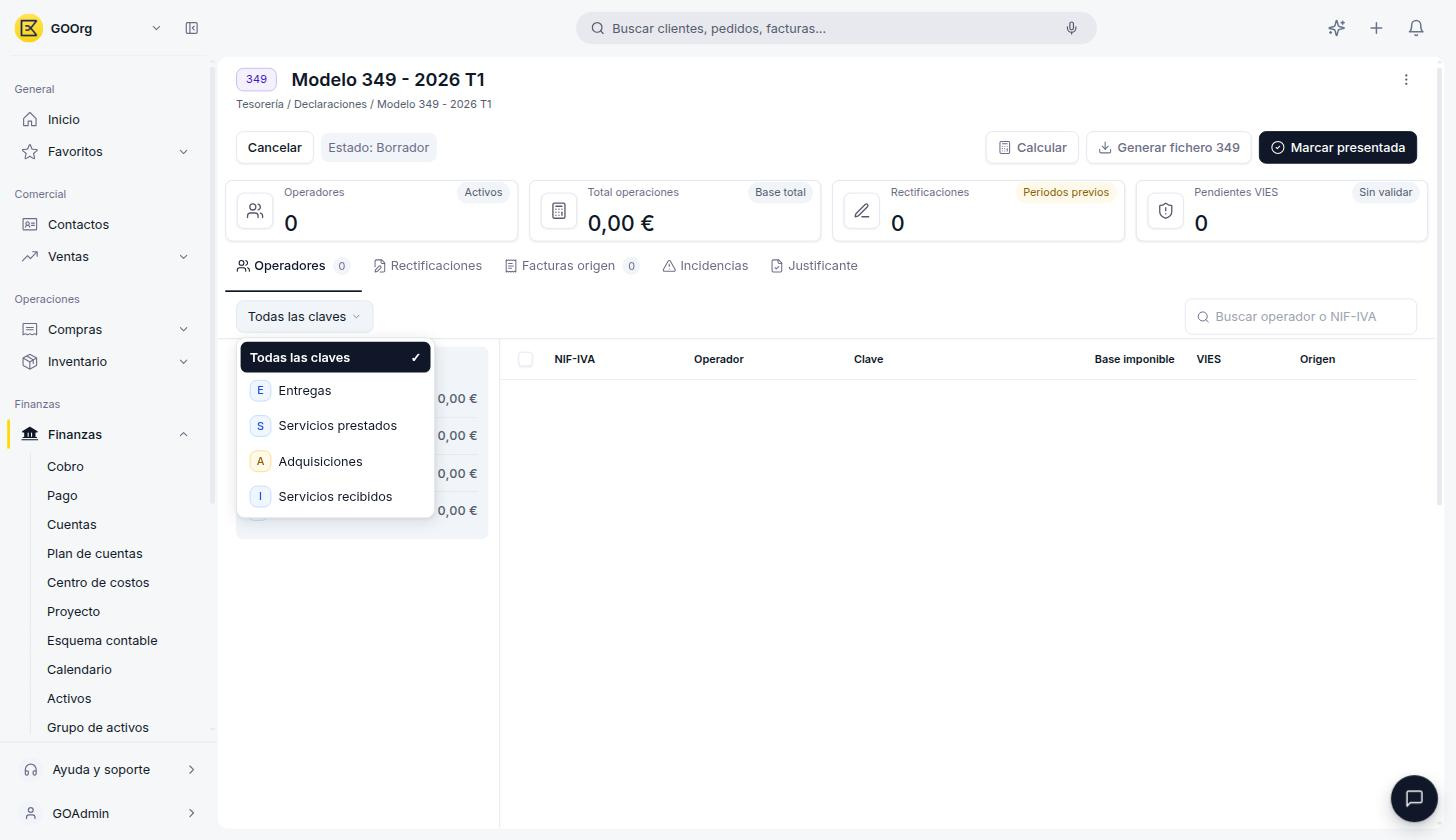
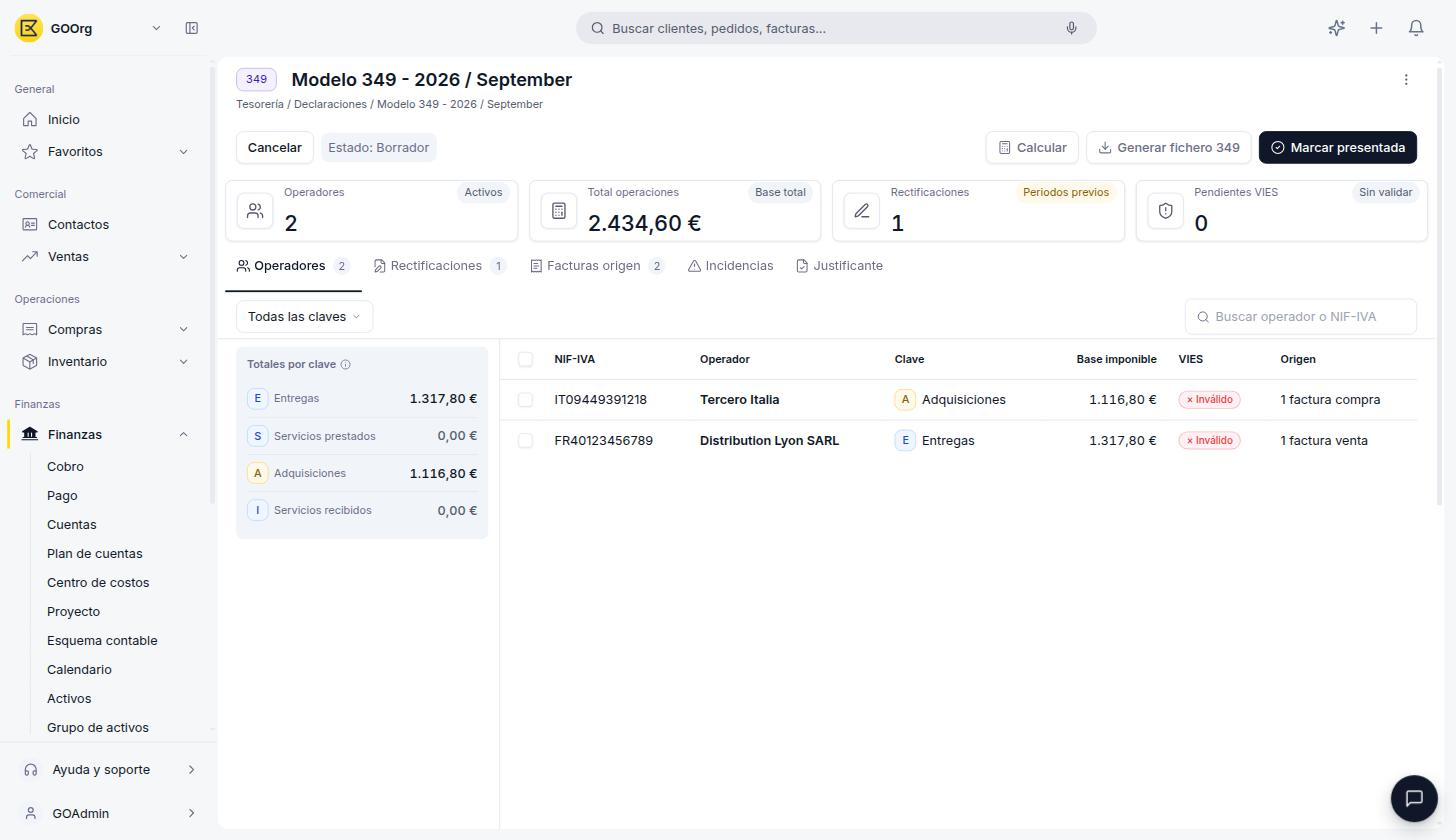
Feature ETP-4930: Editar contenido y capturas

diff --git a/docs/es/impuestos/modelo-349/modelo-349.md b/docs/es/impuestos/modelo-349/modelo-349.md
@@ -41,11 +41,18 @@ La declaración se crea en estado **Borrador** y aparece junto al resto de tus d
 
 ## El Detalle de una Declaración
 
-La cabecera de una declaración Modelo 349 ofrece tres acciones: **Calcular**, **Generar fichero 349** y **Marcar presentada**.
+La cabecera de una declaración Modelo 349 en **Borrador** ofrece tres acciones: **Calcular**, **Generar fichero 349** y **Marcar presentada**. Igual que en el Modelo 303, una vez que la marcas como presentada pasa a **Presentado · Sin acuse** y estos botones dejan de estar disponibles: solo quedas con Cancelar y Generar fichero 349, hasta que subas el comprobante en la pestaña Justificante.
 
 <figure markdown="span">
   ![Cabecera del Modelo 349 con sus indicadores principales](assets/modelo-349-2.jpg)
   <figcaption>Cabecera del Modelo 349: operadores activos, total de operaciones, rectificaciones de períodos previos y pendientes de validación VIES.</figcaption>
+</figure>
+
+Si tienes operadores con el NIF-IVA pendiente de validar, un aviso aparece sobre los indicadores con acceso directo a la validación:
+
+<figure markdown="span">
+  ![Aviso de NIF-IVA con validación VIES pendiente y enlace Validar VIES](assets/modelo-349-4.jpg)
+  <figcaption>El aviso "NIF-IVA con validación VIES pendiente" es informativo y no bloquea la declaración; pulsa <strong>Validar VIES</strong> para lanzar la validación asíncrona contra el sistema de la Unión Europea.</figcaption>
 </figure>
 
 Los cuatro indicadores de la cabecera son:
@@ -57,7 +64,7 @@ Los cuatro indicadores de la cabecera son:
 
 ### Pestaña Operadores
 
-Lista cada tercero con operaciones intracomunitarias en el período, con su NIF-IVA, la **Clave** de la operación, la base imponible, el estado de validación **VIES** y el documento de **Origen**.
+Lista cada tercero con operaciones intracomunitarias en el período, con su NIF-IVA, el nombre del Operador, la **Clave** de la operación, la Base imponible, el estado de validación **VIES** (*Pendiente* o *Inválido*) y una columna de **Origen** con un resumen de cuántas facturas componen ese total, por ejemplo *"10 facturas compra"* o *"1 factura venta"*.
 
 <figure markdown="span">
   ![Pestaña Operadores con el filtro Todas las claves desplegado](assets/modelo-349-3.jpg)
@@ -74,9 +81,17 @@ Las cuatro claves de operación son:
 ### Otras Pestañas
 
 - **Rectificaciones** — operaciones que corrigen la base imponible ya declarada en un período anterior; muestra *"Sin rectificaciones correctivas en este periodo"* cuando no hay ninguna.
-- **Facturas origen** — las facturas que Etendo Go usó (o usará, tras pulsar Calcular) para completar la declaración.
-- **Incidencias** — detalle de los datos que generaron alguna advertencia durante el cálculo, por ejemplo un NIF-IVA pendiente de validar en VIES.
+- **Facturas origen** — las facturas que Etendo Go usó (o usará, tras pulsar Calcular) para completar la declaración, con las mismas columnas que la pestaña Facturas del Modelo 303 (Fecha, Nº, Tipo, Tercero, Régimen, Base, Cuota, Total y Casillas). En el Modelo 349, las columnas Cuota, Total y Casillas suelen mostrarse vacías (*—*), porque estas operaciones intracomunitarias no generan cuota de IVA ni ocupan casillas del 303.
+- **Incidencias** — detalle de los datos que generaron alguna advertencia durante el cálculo, por ejemplo un NIF-IVA pendiente de validar en VIES; si no hay ninguna, muestra un estado vacío "Sin incidencias".
 - **Justificante** — sube aquí el comprobante de presentación de tu declaración.
+
+<figure markdown="span">
+  ![Pestaña Facturas origen con varias compras de una misma factura de origen](assets/modelo-349-5.jpg)
+  <figcaption>Facturas origen: mismo formato de tabla que el Modelo 303, aunque aquí las columnas Cuota, Total y Casillas quedan vacías al tratarse de operaciones intracomunitarias.</figcaption>
+</figure>
+
+!!! note "El título de la declaración puede mostrarse en inglés"
+    Al igual que en el Modelo 303, el título de una declaración mensual no siempre coincide con la vista previa del diálogo de creación. Además, en el Modelo 349 el mes puede aparecer en inglés en el título, por ejemplo **"Modelo 349 - 2026 / August"** en lugar de "Modelo 349 - 2026 / Agosto". Es una particularidad conocida de la pantalla, no una traducción pendiente de tu configuración.
 
 !!! tip "Justificante es un área de carga manual"
     Etendo Go no genera el comprobante de presentación de forma automática. Arrastra el archivo o selecciónalo desde tu equipo una vez que ya presentaste la declaración ante Hacienda (formatos compatibles: PDF, Word, Excel, PowerPoint e imágenes).

diff --git a/docs/es/impuestos/modelo-303/modelo-303.md b/docs/es/impuestos/modelo-303/modelo-303.md
@@ -27,8 +27,8 @@ Con el modelo activo, el botón **+ Nueva declaración** queda disponible.
 
 1. Pulsa **+ Nueva declaración**.
 2. Elige el **Modelo 303** en el selector.
-3. Selecciona el **Año** y la **Frecuencia**: **Trimestral** (períodos T1 a T4) o **Mensual**.
-4. Elige el **Período** correspondiente. El diálogo muestra una vista previa, por ejemplo *"Se creará como Modelo 303 · T2 2026"*.
+3. Selecciona el **Año** y la **Frecuencia**: **Trimestral** (períodos T1 a T4) o **Mensual** (cuadrícula de los 12 meses).
+4. Elige el **Período** correspondiente. El diálogo muestra una vista previa, por ejemplo *"Se creará como Modelo 303 · T2 2026"* para una declaración trimestral, o *"Se creará como Modelo 303 · 01 2026"* para una mensual.
 5. Pulsa **Crear declaración**.
 
 La declaración se crea en estado **Borrador** y aparece en el listado de **Declaraciones**, junto al resto de tus modelos activos, con columnas de Modelo, Período, Tipo, Estado, Resultado (*Sin resultado* hasta que pulses Calcular), Incidencias y Última actualización.
@@ -40,11 +40,19 @@ La declaración se crea en estado **Borrador** y aparece en el listado de **Decl
 
 ## El Detalle de una Declaración
 
-Dentro de una declaración, la cabecera resume el período y ofrece tres acciones: **Calcular**, **Generar fichero 303** y **Marcar presentado**.
+Dentro de una declaración en **Borrador**, la cabecera resume el período y ofrece tres acciones: **Calcular**, **Generar fichero 303** y **Marcar presentado**.
 
 - **Calcular** — recalcula las casillas a partir de las facturas confirmadas del período.
 - **Generar fichero 303** — genera el fichero listo para subir a la Sede electrónica de la AEAT.
 - **Marcar presentado** — cambia el estado de la declaración una vez que la presentaste ante Hacienda.
+
+<figure markdown="span">
+  ![Declaración en estado Presentado · Sin acuse, sin los botones Calcular ni Marcar presentado](assets/modelo-303-6.jpg)
+  <figcaption>Una vez marcada como presentada, la declaración queda en estado <strong>Presentado · Sin acuse</strong>: los botones Calcular y Marcar presentado desaparecen, y solo quedan disponibles Cancelar y Generar fichero 303.</figcaption>
+</figure>
+
+!!! info "Estado Presentado · Sin acuse"
+    Tras pulsar **Marcar presentado**, la declaración pasa a **Presentado · Sin acuse** hasta que subas el comprobante en la pestaña **Justificante**. En este estado ya no puedes recalcular las casillas ni volver a marcarla como presentada; solo puedes cancelarla o volver a generar el fichero.
 
 Los cuatro indicadores de la cabecera son:
 
@@ -87,12 +95,22 @@ El bloque **Resultado** traduce todo lo anterior en una única cifra. La casilla
 
 ### Pestaña Facturas
 
-Muestra todas las facturas confirmadas del período que Etendo Go usó (o usará, tras pulsar Calcular) para completar las casillas. Es la forma de auditar de dónde sale cada importe de la declaración.
+Muestra todas las facturas confirmadas del período que Etendo Go usó (o usará, tras pulsar Calcular) para completar las casillas, con columnas de Fecha, Nº, Tipo (Venta o Compra), Tercero, Régimen, Base, Cuota, Total y las Casillas donde impacta cada factura. Es la forma de auditar de dónde sale cada importe de la declaración.
+
+<figure markdown="span">
+  ![Pestaña Facturas con una factura de venta y sus casillas asociadas](assets/modelo-303-7.jpg)
+  <figcaption>Cada fila indica en qué casillas del modelo impacta la factura; en este ejemplo, una venta afecta las casillas 07 y 09.</figcaption>
+</figure>
 
 ### Otras Pestañas
 
-- **Incidencias** — detalle de las facturas o datos que generaron alguna advertencia durante el cálculo.
+- **Incidencias** — detalle de las facturas o datos que generaron alguna advertencia durante el cálculo, en una tabla de Severidad, Origen y Mensaje.
 - **Justificante** — sube aquí el comprobante de presentación de tu declaración.
+
+<figure markdown="span">
+  ![Pestaña Incidencias con una advertencia sobre la Información adicional](assets/modelo-303-8.jpg)
+  <figcaption>Cada incidencia indica su Severidad (por ejemplo, Advertencia), el Origen (el número de la factura o registro implicado) y un Mensaje explicando qué revisar antes de generar el fichero.</figcaption>
+</figure>
 
 !!! tip "Justificante es un área de carga manual"
     Etendo Go no genera el comprobante de presentación de forma automática. Arrastra el archivo o selecciónalo desde tu equipo una vez que ya presentaste la declaración ante Hacienda (formatos compatibles: PDF, Word, Excel, PowerPoint e imágenes).
